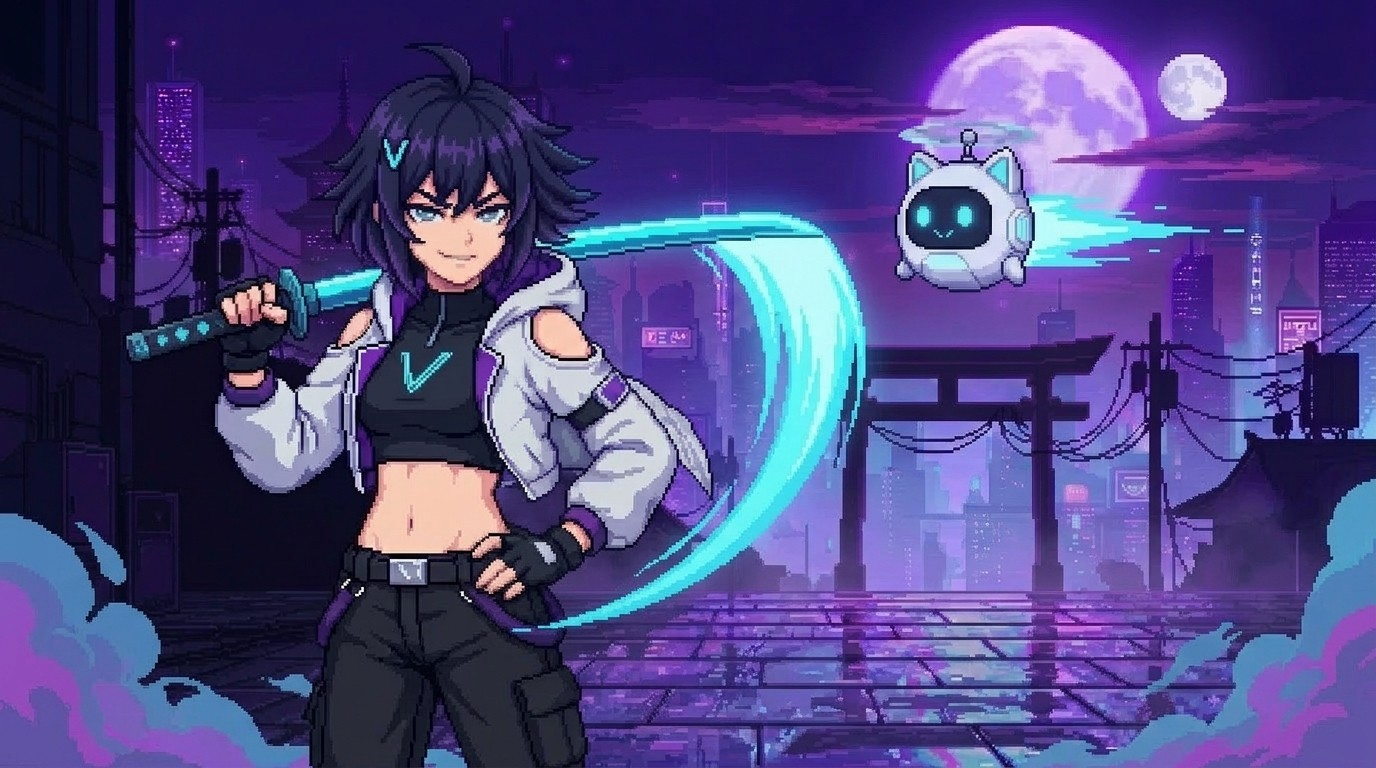
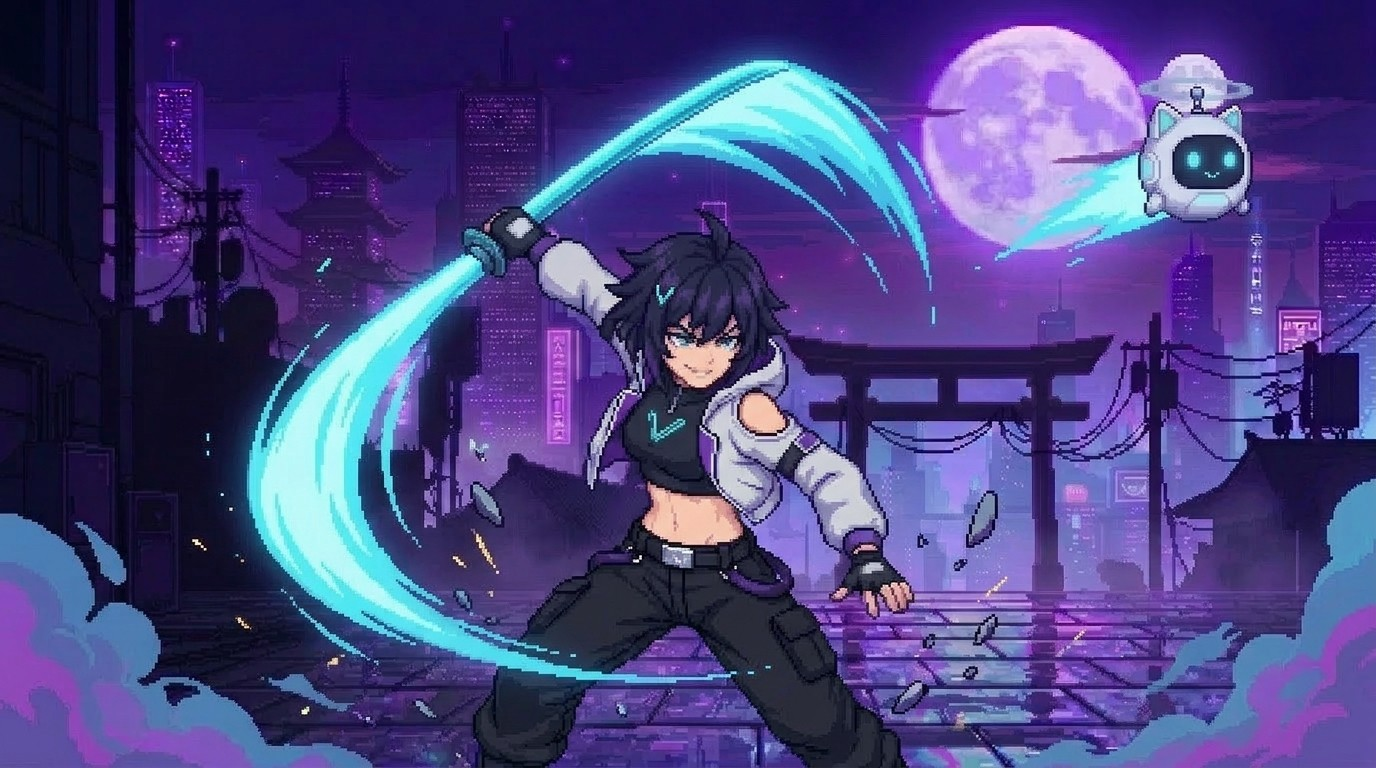
Ult cutscene: 2 more ending frames (63 -> 65) and queue the next 25 in-betweens
The rise from the kneel to the shoulder-rest pose was still a jump. New
frame 62 has her half standing with the sword swinging up and the camera
moving in; new frame 64 settles the pose. ULT_END_MS is now 7160.

The next round of five in-betweens per section hit the AI Studio daily
limit before anything was generated. The 25 jobs and the tiny local server
that drives them are saved in tools/ult_jobs/, and the handoffs explain
how to run them.

diff --git a/index.html b/index.html
@@ -3619,7 +3619,7 @@ function mistake() {
 
 /* ---------- คัตซีนท่าไม้ตาย (Ultimate Cutscene 32 เฟรม) ---------- */
 const ULT_NAMES = ['คมดาบอักษรผ่าฟากฟ้า', 'เพลงดาบแสงนีออน', 'พายุคีย์บอร์ดทลายฟ้า'];
-const ULT_FRAMES = Array.from({ length: 63 }, (_, i) => `art/ult-${String(i + 1).padStart(2, '0')}.jpg`);
+const ULT_FRAMES = Array.from({ length: 65 }, (_, i) => `art/ult-${String(i + 1).padStart(2, '0')}.jpg`);
 const ULT_IMGS = ULT_FRAMES.map((src, i) => {
   const im = document.createElement('img');
   im.className = 'uc-img'; im.src = src; im.alt = ''; im.dataset.f = String(i + 1);
@@ -3688,10 +3688,12 @@ const ULT_SEQ = [
   { at: 5750, f: 58, cam: 'land',       shake: 1, sfx: 'leap'       },   // ลงพื้นคุกเข่าข้างเดียวท่ามกลางควันนีออน
   { at: 5950, f: 59, cam: 'zoom'                                    },   // AI in-between: ลุกจากท่าคุกเข่า เหวี่ยงดาบโค้งขึ้น แมวหุ่นยนต์พุ่งเข้าจากขวา
   { at: 6050, f: 60, cam: 'zoom' },   // AI in-between (63f): เริ่มลุก แมวหุ่นยนต์บินเข้า
-  { at: 6150, f: 61, cam: 'settle'                          },   // AI in-between: ลุกยืน ดาบตกลงบ่า แมวหุ่นยนต์บินเข้ามา
-  { at: 6310, f: 62, cam: 'settle'                                  } // ท่าจบพาดดาบบนบ่า + น้องแมวหุ่นยนต์
+  { at: 6170, f: 61, cam: 'zoom' },   // AI in-between (65f): ครึ่งลุก เหวี่ยงดาบขึ้นบ่า กล้องเข้าใกล้
+  { at: 6290, f: 62, cam: 'settle'                          },   // AI in-between: ลุกยืน ดาบตกลงบ่า แมวหุ่นยนต์บินเข้ามา
+  { at: 6440, f: 63, cam: 'settle' },   // AI in-between (65f): พาดดาบบนบ่า ยิ้ม แมวหุ่นยนต์ลอยเข้าใกล้
+  { at: 6590, f: 64, cam: 'settle'                                  } // ท่าจบพาดดาบบนบ่า + น้องแมวหุ่นยนต์
 ];
-const ULT_END_MS = 6880;
+const ULT_END_MS = 7160;
 let ULT_CINE = null;
 function playUltSfx(k) {
   if (k === 'charge') tone(220, 0.22, 'sawtooth', 0.08, 620);

diff --git a/tools/ult_jobs/serve.js b/tools/ult_jobs/serve.js
@@ -1,0 +1,11 @@
+const http=require('http'),fs=require('fs'),path=require('path');
+const out=process.argv[2], art=process.argv[3];
+const h={'Access-Control-Allow-Origin':'*','Access-Control-Allow-Private-Network':'true','Access-Control-Allow-Headers':'*','Access-Control-Allow-Methods':'GET,POST,OPTIONS'};
+http.createServer((q,r)=>{
+ if(q.method==='OPTIONS'){r.writeHead(204,h);return r.end();}
+ const u=new URL(q.url,'http://x');
+ if(q.method==='GET'){const bn=path.basename(u.pathname); const f=bn==='jobs.json'?path.join(out,bn):path.join(art,bn);
+   if(!fs.existsSync(f)){r.writeHead(404,h);return r.end();}
+   r.writeHead(200,{...h,'Content-Type':'image/jpeg'});return r.end(fs.readFileSync(f));}
+ const b=[];q.on('data',c=>b.push(c));q.on('end',()=>{const n=(u.searchParams.get('n')||'img')+'.jpg';fs.writeFileSync(path.join(out,n),Buffer.concat(b));console.log('saved',n);r.writeHead(200,h);r.end('ok');});
+}).listen(8765,'127.0.0.1',()=>console.log('listening'));

diff --git a/tests/features-cdp.js b/tests/features-cdp.js
@@ -237,7 +237,7 @@ let failed = 0;
   const loadInfo = await ev(`({ count: ULT_IMGS.length, loaded: ULT_IMGS.filter(im => im.complete && im.naturalWidth > 0).length })`);
   const NF = await ev(`ULT_FRAMES.length`);
   ok('Ultimate triggers Frame 1 with all ' + NF + ' frames loaded (' + loadInfo.loaded + '/' + loadInfo.count + ')',
-     f1 >= 1 && NF === 63 && loadInfo.count === NF && loadInfo.loaded === NF && await ev(`!$('#ultCine').hidden && !!ULT_CINE`));
+     f1 >= 1 && NF === 65 && loadInfo.count === NF && loadInfo.loaded === NF && await ev(`!$('#ultCine').hidden && !!ULT_CINE`));
 
   await waitFrame(10, 1500);
   const focusSeen = await ev(`$('#ucStage').classList.contains('focus2')`);

diff --git a/HANDOFF.md b/HANDOFF.md
@@ -4,13 +4,17 @@
 **เป้าหมาย: เกมเสร็จเล่นได้ก่อนศุกร์ 2026-11-27** — หยุดเพิ่มฟีเจอร์/อาร์ต (คัตซีน, ภาพบอสใหม่, เฟรมใหม่ = หลังศุกร์) งานตอนนี้ = ความเสถียร + บาลานซ์
 - **เล่นออนไลน์ได้แล้ว:** https://ballg-it.github.io/type-game/ (รีโป public, Pages build จาก `ccr-a67b83da-eggwh5` อัตโนมัติทุก push ~1 นาที) · ⚠ อีเมล Gmail ของผู้ใช้อยู่ในประวัติ commit 36 อันที่เห็นได้สาธารณะ (แจ้งแล้ว ยังไม่ได้ทำอะไร)
 - **แผนก่อนศุกร์:** P0 ✅ ทั้งหมด (เทสต์จบรัน, ผู้ใช้เล่นจริงแล้ว "ส่วนใหญ่แก้แล้ว", แจกผ่าน Pages, PvP เน็ตจริง) · P1 ✅ (ปุ่มล้างข้อมูล, หน้าวิธีเล่น 12 ข้อ, บอสใหม่บนแป้นไทย, parry) · **เหลือ: ศุกร์ = รันเทสต์ครบ → ติด tag รุ่นเล่นได้ + README** · ผู้ใช้อาจเล่นแล้วบอกบาลานซ์ parry/บอสเพิ่ม
-- **ทำในเซสชัน 2026-11-21 รอบเย็น — คัตซีนท่าไม้ตาย 37 → 39 เฟรม (push ครบถึง `fdf284b`):**
+- **ทำในเซสชัน 2026-11-21 รอบเย็น — คัตซีนท่าไม้ตาย 37 → 39 → 63 → 65 เฟรม (push ครบถึง `4d18260`):**
   - `9e4517a` เจนรอยต่อ 4 จุดตาม `docs/ULT_HANDOFF.md` ข้อ 3 → 32 → **37 เฟรม**, `ULT_END_MS` 5240 → **5760** · ใหม่: 08–09 (ซูมออกจากตา → ร่างเงา 2 ร่างแรก), 20 (ถีบพื้นกระโดด), 33 (เสาแสงสลาย ทิ้งตัวลง), 35–36 (ลุกเหวี่ยงดาบขึ้นบ่า แมวหุ่นยนต์บินเข้า) · ตารางเลขเฟรมเก่า→ใหม่อยู่ท้าย `docs/ULT_HANDOFF.md`
   - `fec3483` เปลี่ยนเฟรมที่เป็นแค่ฟิลเตอร์ (RGB split/แฟลร์ของเฟรมก่อน) อีก 7 เฟรม: 11, 14, 17, 19, 24, 27, 32 → ตอนนี้**ทุกเฟรมเป็นภาพ AI จริง** ยกเว้น 30 (Impact 2 เนกาทีฟ ตั้งใจ) · ใน `ULT_SEQ` คอมเมนต์ `AI in-between:` = เฟรมที่เจนใหม่
   - วิธีเจน: AI Studio (Chrome) Nano Banana 2.1, Images only, **16:9, 1K (= 1376×768 พอดี ไม่ต้องครอป)** · แนบ 2 เฟรมข้างเคียง + บอกว่า "IN-BETWEEN frame… same camera/background/style" + บรรยายท่า · เก็บภาพด้วย `node tools/recv.js <dir>` + JS fetch blob → POST `127.0.0.1:8765/?n=` — **เอาเฉพาะ `<img>` ตัวสุดท้าย (≥1000px)** เพราะภาพอ้างอิงที่แนบก็เป็น `<img>` 1376px ด้วย (เคยดึงผิดเป็นภาพอ้างอิง) · กล่องพิมพ์บางทีไม่รับข้อความถ้าคลิกโดนแถบไฟล์แนบ → ซูมเช็กก่อนกด Run · ถ้าได้ภาพเกือบเหมือนคีย์เฟรมปลาย ให้สั่งซ้ำแบบระบุมุมกล้อง/ขนาดตัวละครชัดๆ
-  - เฟรมใหม่ที่แทรก: `python tools/ult_frames.py insert AFTER img…` แล้วแก้ `ULT_SEQ`/`ULT_END_MS`/`ULT_FRAMES length` + เลขใน `tests/features-cdp.js` (ตอนนี้ NF 39, impact 31, landing 36) · แทนเฟรมเดิม = เซฟทับ `art/ult-XX.jpg` (JPEG q90) ไม่ต้องแก้โค้ด · พรีวิว `python tools/ult_frames.py gif art/ult-preview-39f.gif` (ไม่ commit)
+  - เฟรมใหม่ที่แทรก: `python tools/ult_frames.py insert AFTER img…` แล้วแก้ `ULT_SEQ`/`ULT_END_MS`/`ULT_FRAMES length` + เลขใน `tests/features-cdp.js` (ตอนนี้ NF 65, focus 10/12, impact 50, landing 58) · แทนเฟรมเดิม = เซฟทับ `art/ult-XX.jpg` (JPEG q90) ไม่ต้องแก้โค้ด · พรีวิว `python tools/ult_frames.py gif art/ult-preview-65f.gif` (ไม่ commit)
   - จุดเล็ก: เฟรม 08 ไอรินมีด้ามดาบเกินมาอีกอัน (โผล่ 0.09 วิ) — เจนใหม่ได้ถ้าผู้ใช้ทัก
   - `fdf284b` ผู้ใช้บอกช่วง 09–11 ยังไม่สวย (ย่อตัวท่าเดิม 3 เฟรมแล้วกระโดดไปเป็น 3 ร่างบนฟ้า) → เจนแทรกหลัง 11: **ใหม่ 12** ถีบพื้นพุ่งขึ้น ร่างเงายืดเป็นเส้นแสง, **ใหม่ 13** กลางอากาศแตกเป็น 3 ร่าง · เฟรมหลังจากนั้น +2 และ +160ms → **39 เฟรม, `ULT_END_MS` 5920** · 09 กับ 10 ยังเกือบเหมือนกัน (เจน 10 ใหม่ได้ถ้าผู้ใช้ยังว่าค้าง)
+  - `4d18260` ผู้ใช้สั่ง "แทรกเฟรมต่อในส่วนต่างๆ ส่วนละ 5 เฟรม" → เจน 24 เฟรม (แทรกหลังเลขเดิม 1,2,3,4,7 · 8,9,13,15,16 · 17,18,19,21,22 · 23,24,26,27,29 · 33,34,35,37) → **63 เฟรม, `ULT_END_MS` 6880** · เฟรมใหม่อยู่กลางเวลาเพื่อนบ้าน + เลื่อน 40ms ต่อจุด · ไม่แทรกที่จังหวะค้าง/ตัดภาพ (มาโครตา, เนกาทีฟ, เปลี่ยนมุมกล้อง) · คอมเมนต์ใน `ULT_SEQ` = `AI in-between (63f):`
+    - **เจนขนานเร็วกว่ามาก:** เปิด 5 แท็บ AI Studio แล้วคุมด้วย JS ทั้งหมด — ตั้ง Images only/16:9 ผ่าน DOM (`[aria-label="Aspect ratio"]` → `[role=option]` 16:9), แนบไฟล์โดย fetch จากเซิร์ฟเวอร์ local 127.0.0.1:8765 (GET เสิร์ฟ `art/`, POST รับผล) ใส่ `DataTransfer` → `input[type=file]`, ใส่ prompt ใน `textarea` + event `input`, กด Run · เก็บผลเมื่อมี `<img>` ≥1000px ครบ 3 รูป (2 อ้างอิง + ผล) เอารูปสุดท้าย · รอบละ ~60 วิ
+    - ⚠ **Nano Banana มีลิมิตรายวัน** ชนหลังเจนราว 27 รูป (รีเซ็ต ~18 ชม.) → ตอนจบเจนเพิ่มแล้ว: **ใหม่ 62** ครึ่งลุกเหวี่ยงดาบขึ้นบ่า (ต้องสั่งชัดว่า "MEDIUM SHOT… no longer kneeling… clearly different from image 1" ไม่งั้นได้ภาพคุกเข่าเหมือนเดิม), **ใหม่ 64** พาดดาบ ยิ้ม แมวลอยเข้า → **65 เฟรม, `ULT_END_MS` 7160** (ก่อนเจนรอบนี้ AI Studio ขึ้นหน้าต่างยอมรับข้อตกลง — ผู้ใช้อนุญาตให้กด Continue) · เฟรม 31 มีร่างโคลนสีส้มเพี้ยนเล็กน้อย
+  - **ค้าง:** ผู้ใช้สั่ง "เจนเพิ่มทุกส่วน 5 เฟรม" อีกรอบ (65 → 90 เฟรม) แต่ชนลิมิตรายวันก่อนได้สักรูป → 25 งานพร้อมแล้วใน `tools/ult_jobs/round3-65f.json` + `tools/ult_jobs/serve.js` วิธีรันอยู่ท้าย `docs/ULT_HANDOFF.md` · หลังแทรกต้องแก้ `ULT_SEQ` (เฟรมใหม่กลางเวลา +40ms/จุด), `ULT_END_MS`, length และเลขเฟรมในเทสต์ (focus/impact/landing เลื่อนตามจำนวนที่แทรกก่อนหน้า)
   - ⚠ อีกเซสชัน Claude commit ในโฟลเดอร์นี้ด้วย (`b9a8d1a` เอฟเฟกต์โจมตีตามอาวุธศัตรู, `6800937` ทำ `#ultBox`/`#mechBar` ใหม่ตามคอนเซ็ปต์ v5) — push ไปพร้อม `9e4517a` แล้ว → ข้อ "`#ultBox`/`#mechBar` ยังไม่ได้ทำ" ด้านล่างเสร็จแล้ว
   - **ผู้ใช้บอก: "เลขไทยยากจริง"** (ภูตตัวเลขที่ต้องกด Shift) → ยังไม่ได้แก้ ต้องคุยว่าจะลดเลขไทย/โชว์เลขอารบิกแทน/ช่วยบอกตำแหน่งแป้น
   - **ต่อได้:** แก้เรื่องเลขไทย · ลอง HUD v5 บนมือถือจริง · ศุกร์ = รันเทสต์ครบ → tag + README
@@ -141,7 +145,7 @@
 
 ## ระบบที่เพิ่มจาก PR #1–#8 (session อื่น, 2026-11-20)
 - **หยุดเกม + เซฟ/เล่นต่อ (PR #6, `PAUSE_ITEMS`, `setPause`, `saveRunSnapshot`/`loadRunSnapshot`/`continueRun`/`restartGame`/`goLobby`):** Esc หรือปุ่ม `#pauseBtn` ⏸ (ได้เฉพาะไฟต์/หน้าอัปเกรด/ร้าน/หน้าตัวเลือก ไม่ได้ใน PvP/คัตซีน/ทัวร์ — `canPause`) → พิมพ์ `ต่อ`/`resume` · `ใหม่`/`again` · `ล็อบบี้`/`lobby` · เซฟรันอัตโนมัติลง localStorage `typegame.save.v1` ทุกครั้งที่เข้าแผนที่/ไฟต์/อัปเกรด/ร้าน/พัก/เหตุการณ์/ฉากก่อนบอส (ไม่เซฟฝึกซ้อม/ท้าบอส/PvP) รวมสถานะกลางไฟต์ (HP สองฝั่ง, ult, โล่, โกรธ, แฝด) · Lobby มีปุ่ม/คำ `ต่อ`/`resume` (`#continueBtn` + ป้ายชั้น/HP) · จบรัน = `clearSavedRun` · หน้าสรุปมี "เล่นใหม่"/"กลับ Lobby"
-- **(ประวัติ — ปัจจุบัน 39 เฟรม 5920ms ดู `docs/ULT_HANDOFF.md`) คัตซีนท่าไม้ตาย 18 เฟรม (PR #7 → PR #8 14 เฟรม → 2026-11-20 แทรก in-between 3 เฟรม + มาโครตา, `playUltCutscene`, `ULT_SEQ`, `ULT_END_MS`=3100ms):** พิมพ์ประโยคท่าไม้ตายสำเร็จ (`ultHit`) → overlay `#ultCine` เล่นภาพพิกเซล `art/ult-01..18.jpg` (02 ออร่าพุ่ง, 06 มาโครตาเห็นปีศาจสะท้อนในรูม่านตา ค้าง 460ms + เสียงหัวใจ `heart`, 08 ซูมเอาต์จาก cut-in, 10 สปรินต์ทิ้ง afterimage = เจนจาก AI Studio โดยแนบเฟรมก่อน/หลังเป็นอ้างอิง · ช่วงซูม (04–06) ใช้ step `focus: 1|2` = เส้นสปีดรัศมี `.uc-focus` + ขอบมืด `.uc-vig` + สีแยก RGB, กล้อง `push`/`macro` · แทรก/เรียงเลข/ทำ GIF ภาพล้วนด้วย `python tools/ult_frames.py insert|gif`, อัดคัตซีนจริงพร้อมเอฟเฟกต์เป็น GIF ด้วย `node tools/ult_capture.js out.gif`) พร้อมกล้อง (zoom/dash/slash/impact…), แฟลช, ลำแสง, สั่น, ชื่อท่าสุ่ม `ULT_NAMES`, เลขดาเมจ, เสียง `playUltSfx` → จบแล้วค่อย `dealDamage` (`onImpact`) · ระหว่างเล่น `S.ultCine=true` หยุดเกม/ห้าม pause · `cancelUltCine` ตอนออกกลางคัน
+- **(ประวัติ — ปัจจุบัน 65 เฟรม 7160ms ดู `docs/ULT_HANDOFF.md`) คัตซีนท่าไม้ตาย 18 เฟรม (PR #7 → PR #8 14 เฟรม → 2026-11-20 แทรก in-between 3 เฟรม + มาโครตา, `playUltCutscene`, `ULT_SEQ`, `ULT_END_MS`=3100ms):** พิมพ์ประโยคท่าไม้ตายสำเร็จ (`ultHit`) → overlay `#ultCine` เล่นภาพพิกเซล `art/ult-01..18.jpg` (02 ออร่าพุ่ง, 06 มาโครตาเห็นปีศาจสะท้อนในรูม่านตา ค้าง 460ms + เสียงหัวใจ `heart`, 08 ซูมเอาต์จาก cut-in, 10 สปรินต์ทิ้ง afterimage = เจนจาก AI Studio โดยแนบเฟรมก่อน/หลังเป็นอ้างอิง · ช่วงซูม (04–06) ใช้ step `focus: 1|2` = เส้นสปีดรัศมี `.uc-focus` + ขอบมืด `.uc-vig` + สีแยก RGB, กล้อง `push`/`macro` · แทรก/เรียงเลข/ทำ GIF ภาพล้วนด้วย `python tools/ult_frames.py insert|gif`, อัดคัตซีนจริงพร้อมเอฟเฟกต์เป็น GIF ด้วย `node tools/ult_capture.js out.gif`) พร้อมกล้อง (zoom/dash/slash/impact…), แฟลช, ลำแสง, สั่น, ชื่อท่าสุ่ม `ULT_NAMES`, เลขดาเมจ, เสียง `playUltSfx` → จบแล้วค่อย `dealDamage` (`onImpact`) · ระหว่างเล่น `S.ultCine=true` หยุดเกม/ห้าม pause · `cancelUltCine` ตอนออกกลางคัน
 - **คัตซีนเนื้อเรื่อง 4 องก์ถูกพักไว้ (PR #7):** โค้ด Act I–IV, โรงฉาย, พอร์เทรต, เอฟเฟกต์ฝน/ฟ้าผ่า/วังวน/อรุณ ย้ายไปเก็บที่ `docs/cutscenes-stash.js` (ไม่ได้โหลดในเกม) — ตัวเกมใช้ฉากก่อนบอส/ฉากจบเดิม (`storyScript`/`endingScript`) · ฟิลด์ `midCutsceneDone` เอาออกจากเซฟแล้ว (2026-11-21; เซฟเก่าที่มีฟิลด์นี้โหลดได้ปกติ)
 - **โหมดครูถูกลบแล้ว (PR #6)** — ข้อความเรื่อง `#teacherScr`/`#class=` ด้านล่างเป็นประวัติ ไม่มีในโค้ดแล้ว
 

diff --git a/docs/ULT_HANDOFF.md b/docs/ULT_HANDOFF.md
@@ -1,4 +1,4 @@
-# Handoff: Ultimate Cutscene — Sandevistan Overdrive (39 Frames — ดูบันทึกอัปเดตท้ายไฟล์)
+# Handoff: Ultimate Cutscene — Sandevistan Overdrive (65 Frames — ดูบันทึกอัปเดตท้ายไฟล์)
 
 > **ส่งงานต่อให้ Claude** — สรุปสถานะคัตซีนท่าไม้ตายและงานที่เหลือสำหรับเจนเฟรมรอยต่อ (in-between) ให้ลื่นยิ่งขึ้น
 
@@ -106,3 +106,9 @@ node tests/features-cdp.js   # ต้องผ่าน 29/29
 > **อัปเดต 2026-11-21 (`fec3483`, Claude):** เฟรม FX ที่เป็นแค่ฟิลเตอร์ของเฟรมก่อน (11, 14, 17, 19, 24, 27, 32 ตามเลขใหม่) เจน AI ใหม่ทั้งหมดแล้ว — เหลือแค่ 30 (Impact 2 เนกาทีฟ) ที่ตั้งใจเป็นฟิลเตอร์
 
 > **อัปเดต 2026-11-21 (`fdf284b`, Claude) — 37 → 39 เฟรม, `ULT_END_MS` 5920:** แทรก AI in-between 2 เฟรมหลังเฟรม 11 — **ใหม่ 12** ถีบพื้นพุ่งขึ้น ร่างเงาสีรุ้งยืดเป็นเส้นแสง, **ใหม่ 13** กลางอากาศแตกเป็น 3 ร่าง · เดิม 12–37 = 14–39 (Impact = 31–32, ลงพื้น = 36) · เวลาตั้งแต่เฟรม 14 เลื่อน +160ms · เทสต์: NF 39, impact 31, landing 36 — ผ่าน 29/29
+
+> **อัปเดต 2026-11-21 (`4d18260`, Claude) — 39 → 63 เฟรม, `ULT_END_MS` 6880:** แทรก AI in-between 24 เฟรม ส่วนละ ~5 (เปิดฉาก/ซูมตา · พุ่งแยกร่าง · ฟันไขว้/เกลียวขึ้นฟ้า · พระจันทร์/ดาบยักษ์/ฟาด · ควัน/ลงพื้น) หลังเลขเดิม 1,2,3,4,7,8,9,13,15,16,17,18,19,21,22,23,24,26,27,29,33,34,35,37 · Impact = 50–51 (0-based f50), ลงพื้น = f58 · เทสต์: NF 63, impact 50, landing 58 — ผ่าน 29/29 · ค้าง: ตอนลุกยืนท้ายคัตซีน (60→62) ยังกระโดด รอเจนเพิ่มหลังลิมิตรายวันรีเซ็ต
+
+> **อัปเดต 2026-11-21 (Claude) — 63 → 65 เฟรม, `ULT_END_MS` 7160:** ตอนจบเจนเพิ่ม 2 เฟรม — **ใหม่ 62** ครึ่งลุกเหวี่ยงดาบขึ้นบ่า กล้องเข้าใกล้, **ใหม่ 64** พาดดาบบนบ่า ยิ้ม แมวหุ่นยนต์ลอยเข้า · เดิม 62 = 63, เดิม 63 = 65 · เทสต์ NF 65 (impact 50, landing 58 ไม่เปลี่ยน)
+
+> **รอบถัดไป (ยังไม่ได้เจน — ชนลิมิตรายวันของ AI Studio 2026-11-21 ~20:40, รีเซ็ตราว 16 ชม.):** ผู้ใช้สั่ง "เจนเพิ่มทุกส่วน 5 เฟรม" อีกรอบ — 25 งานเตรียมไว้ใน `tools/ult_jobs/round3-65f.json` (`a`/`b` = เลขเฟรมปัจจุบันแบบ 65 เฟรม, `d` = คำบรรยายท่า, `n` = ชื่อไฟล์ผล) · เซิร์ฟเวอร์ `node tools/ult_jobs/serve.js <outdir> art` (GET `/ult-XX.jpg`, GET `/jobs.json` จาก outdir, POST `?n=` บันทึกผล) → คัด json ไปไว้ใน outdir ก่อน · ช่วงที่เลือก: เปิดฉาก 05-06, 06-07, 11-12, 12-13, 13-14 · พุ่งแยกร่าง 14-15, 17-18, 20-21, 23-24, 26-27 · ฟัน/ขึ้นฟ้า 27-28, 30-31, 32-33, 37-38, 40-41 · พระจันทร์/ดาบยักษ์ 42-43, 45-46, 47-48, 48-49, 49-50 · ลงพื้น 53-54, 55-56, 58-59, 60-61, 62-63 · ในหน้า AI Studio: `eval` ได้เฉพาะ top-level ของ javascript tool (Trusted Types บล็อก eval ในฟังก์ชันของหน้า) → เรียก `eval(localStorage.__gen); eval(localStorage.__grab); const j=(await (await fetch('http://127.0.0.1:8765/jobs.json')).json())[k]; await __gen(j.a,j.b,j.d,j.n)` แล้ว `await __grab()` หลัง ~60 วิ (โค้ด `__gen`/`__grab` อยู่ใน localStorage ของ aistudio.google.com — ถ้าหายให้ดูบันทึกเซสชันหรือเขียนใหม่ตามหลักใน HANDOFF)
